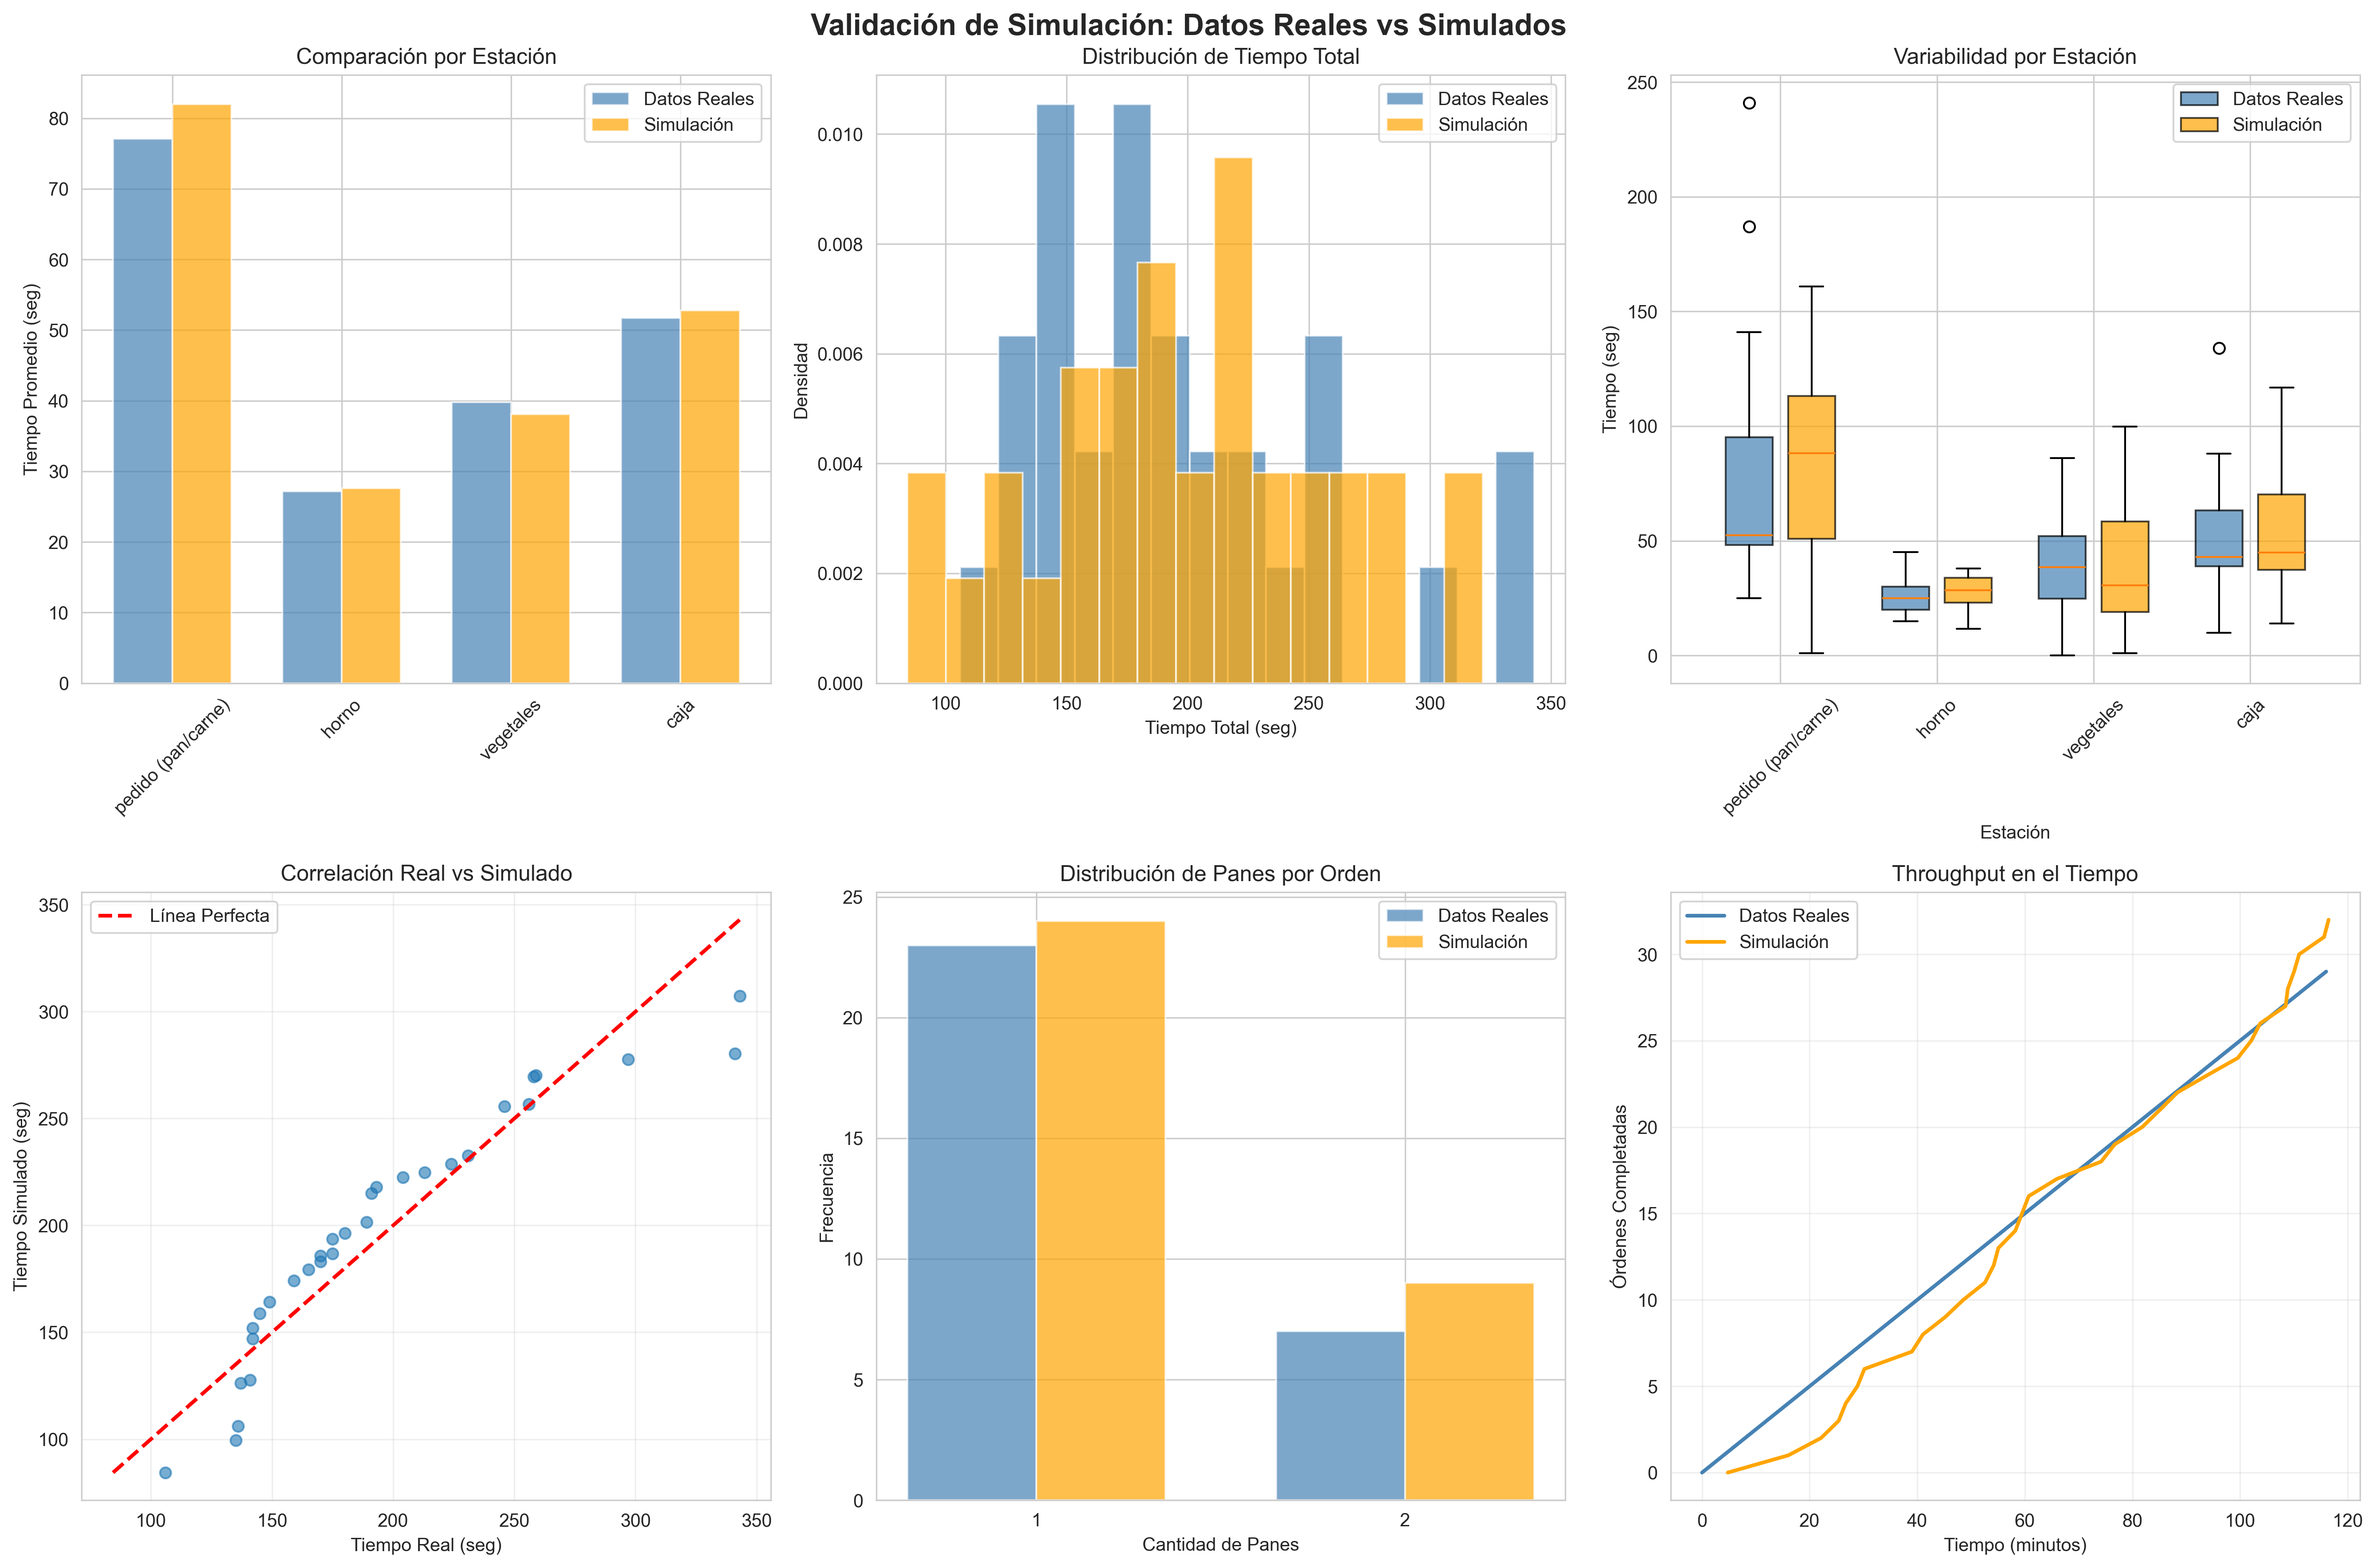
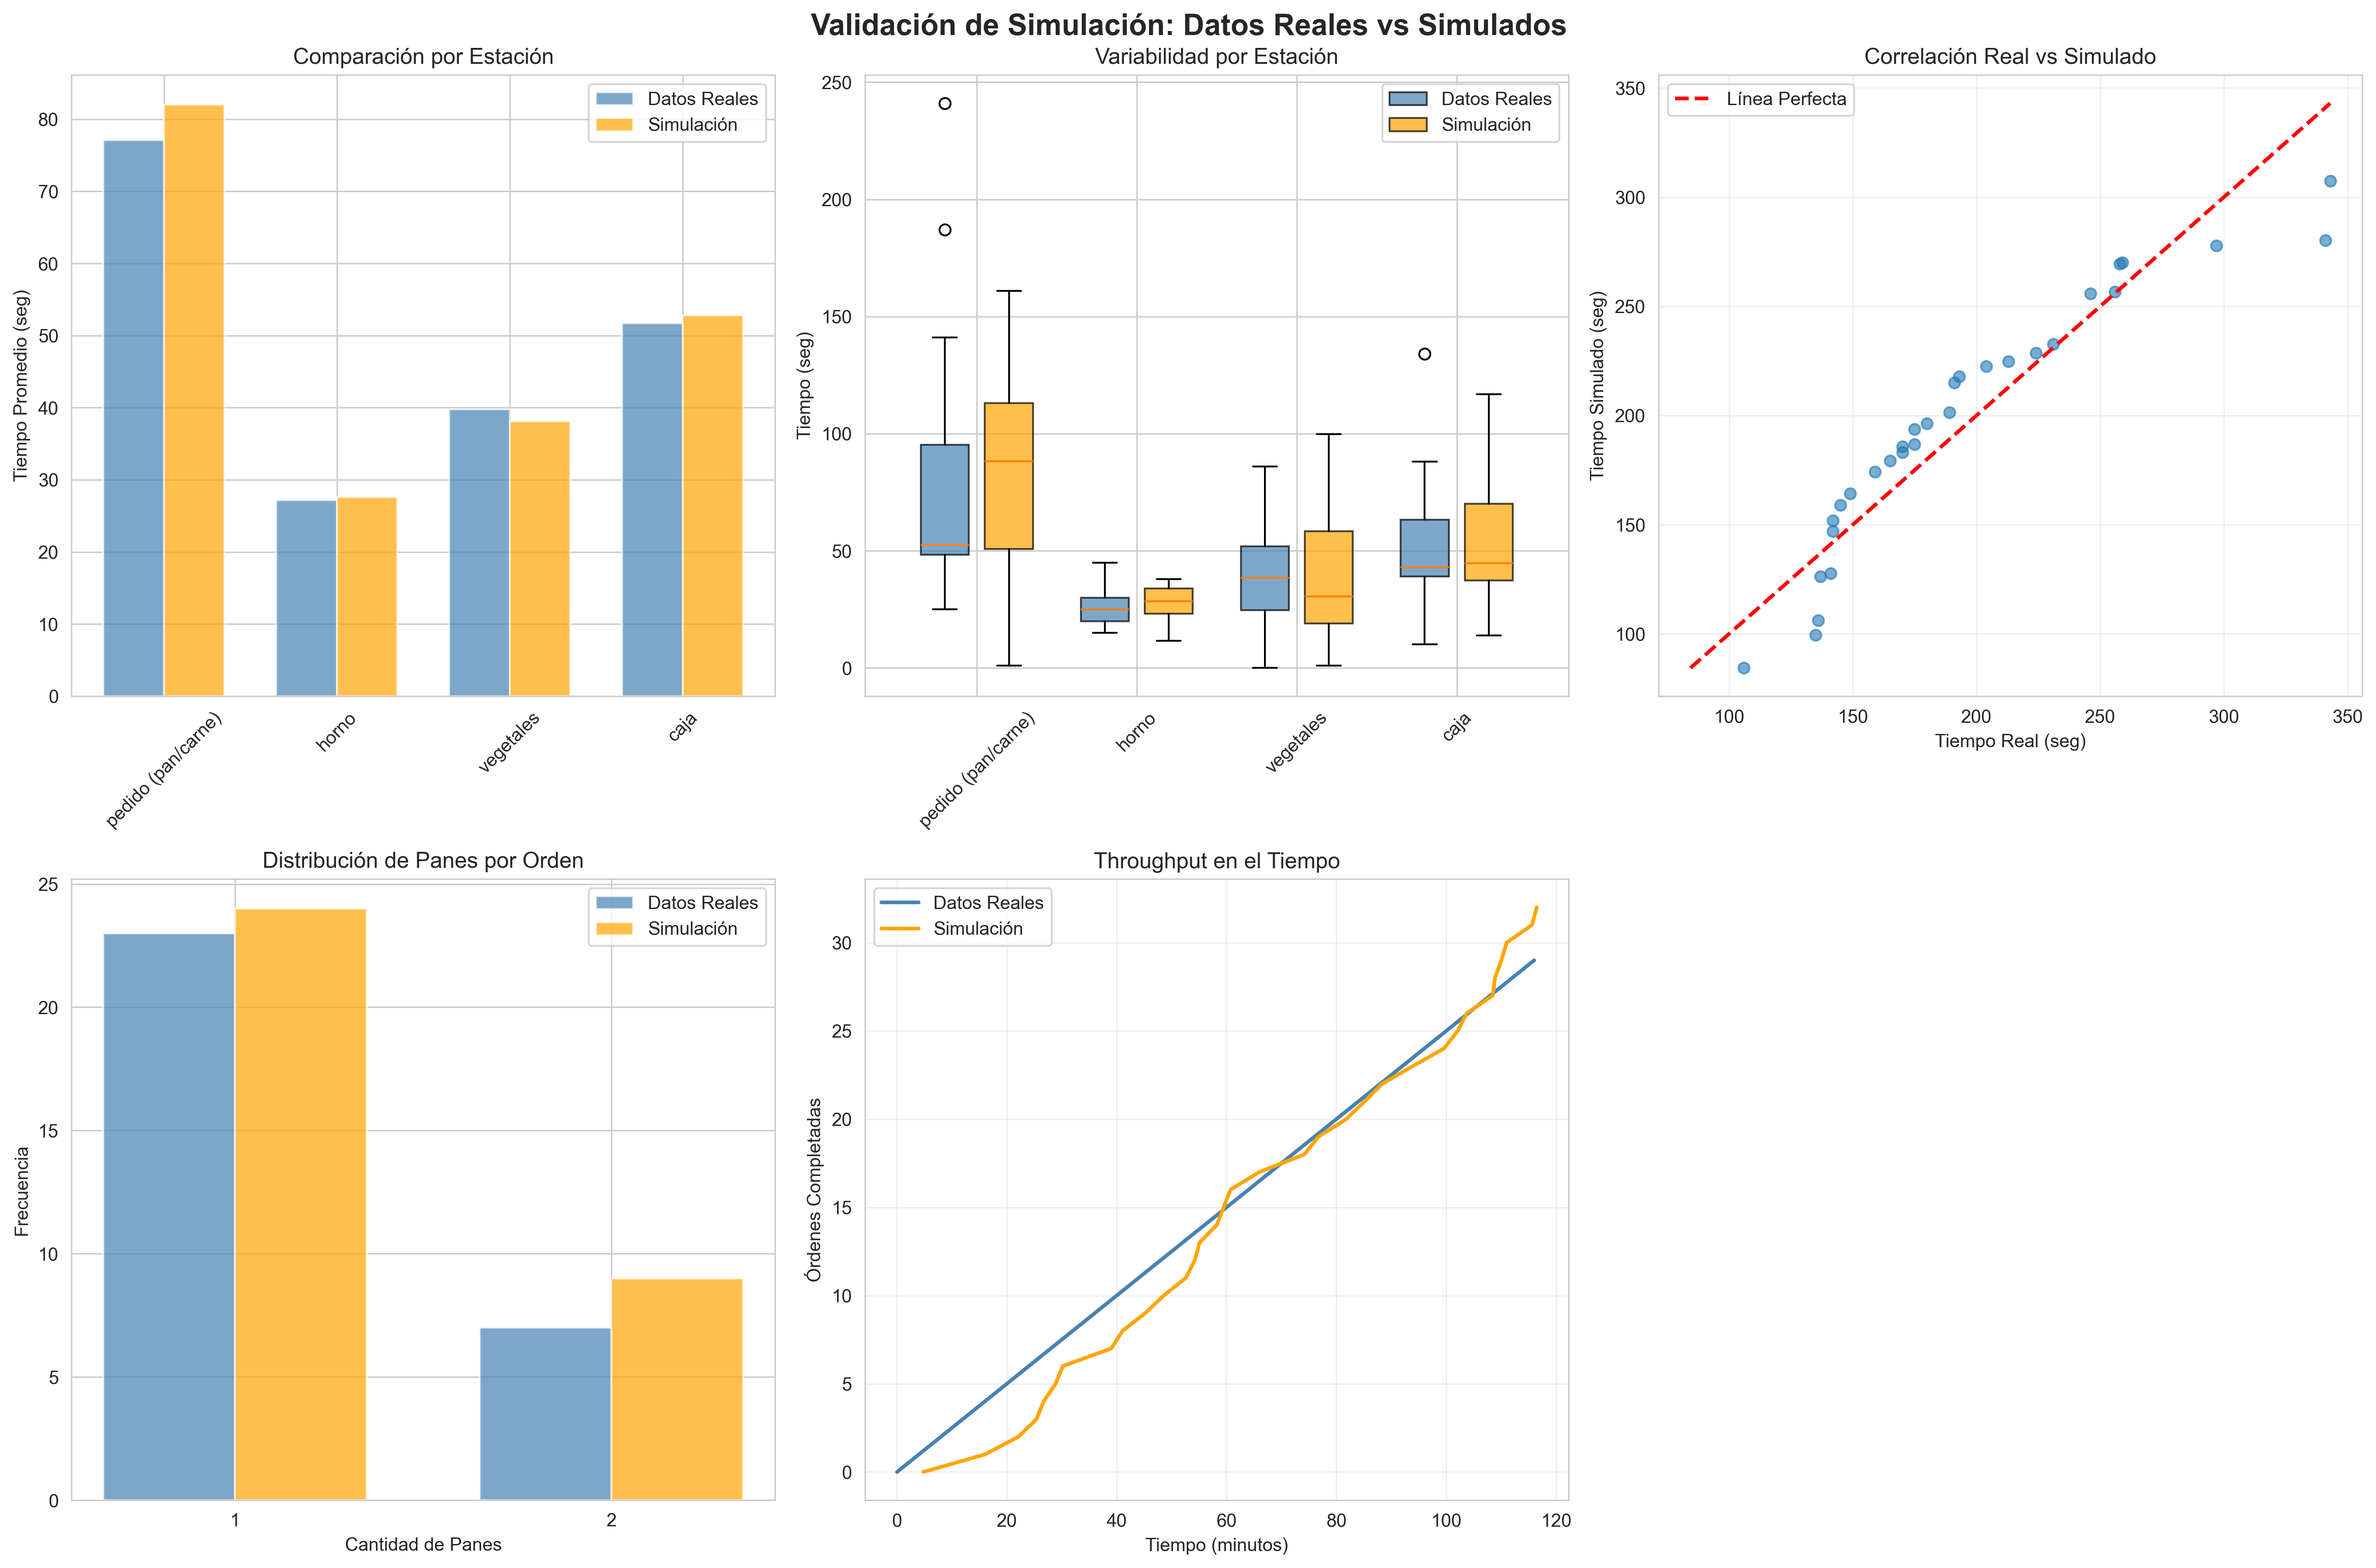
corrección en graficos

diff --git a/parte2/discrete_event_simulation_model.py b/parte2/discrete_event_simulation_model.py
@@ -263,17 +263,8 @@ ax1.set_xticks(x)
 ax1.set_xticklabels(estaciones, rotation=45)
 ax1.legend()
 
-# 2. Distribución de tiempo total
-ax2 = axes[0, 1]
-ax2.hist(df['Tiempo total (seg)'], bins=15, alpha=0.7, label='Datos Reales', color='steelblue', density=True)
-ax2.hist(df_sim['Tiempo total (seg)'], bins=15, alpha=0.7, label='Simulación', color='orange', density=True)
-ax2.set_xlabel('Tiempo Total (seg)')
-ax2.set_ylabel('Densidad')
-ax2.set_title('Distribución de Tiempo Total')
-ax2.legend()
-
-# 3. Box plot comparativo por estación
-ax3 = axes[0, 2]
+# 2. Box plot comparativo por estación
+ax3 = axes[0, 1]
 data_real = [df[col + ' (seg)'].values for col in time_columns]
 data_sim = [df_sim[col + ' (seg)'].values for col in time_columns]
 
@@ -285,15 +276,14 @@ bp1 = ax3.boxplot(data_real, positions=positions_real, widths=0.3, patch_artist=
 bp2 = ax3.boxplot(data_sim, positions=positions_sim, widths=0.3, patch_artist=True,
                   boxprops=dict(facecolor='orange', alpha=0.7))
 
-ax3.set_xlabel('Estación')
 ax3.set_ylabel('Tiempo (seg)')
 ax3.set_title('Variabilidad por Estación')
 ax3.set_xticks(range(len(estaciones)))
 ax3.set_xticklabels(estaciones, rotation=45)
 ax3.legend([bp1["boxes"][0], bp2["boxes"][0]], ['Datos Reales', 'Simulación'])
 
-# 4. Scatter plot: Real vs Simulado
-ax4 = axes[1, 0]
+# 3. Scatter plot: Real vs Simulado
+ax4 = axes[0, 2]
 # Comparar tiempos totales ordenados
 real_sorted = sorted(df['Tiempo total (seg)'].values)
 sim_sorted = sorted(df_sim['Tiempo total (seg)'].values[:len(real_sorted)])
@@ -308,8 +298,8 @@ ax4.set_title('Correlación Real vs Simulado')
 ax4.legend()
 ax4.grid(True, alpha=0.3)
 
-# 5. Distribución de cantidad de panes
-ax5 = axes[1, 1]
+# 4. Distribución de cantidad de panes
+ax5 = axes[1, 0]
 cantidad_real = df['Cantidad de panes'].value_counts().sort_index()
 cantidad_sim = df_sim['Cantidad de panes'].value_counts().sort_index()
 
@@ -324,8 +314,8 @@ ax5.set_xticks(x)
 ax5.set_xticklabels(cantidad_real.index)
 ax5.legend()
 
-# 6. Serie temporal de órdenes completadas
-ax6 = axes[1, 2]
+# 5. Serie temporal de órdenes completadas
+ax6 = axes[1, 1]
 tiempo_real = np.arange(len(df)) * (7200/len(df)) / 60  # Convertir a minutos
 tiempo_sim = np.array(subway_sim.tiempos_salida[:len(df_sim)]) / 60  # Convertir a minutos
 
@@ -336,6 +326,9 @@ ax6.set_ylabel('Órdenes Completadas')
 ax6.set_title('Throughput en el Tiempo')
 ax6.legend()
 ax6.grid(True, alpha=0.3)
+
+axNone = axes[1, 2]
+axNone.axis('off')
 
 plt.tight_layout()
 plt.savefig('discrete_event_simulation_model_charts.png', dpi=300, bbox_inches='tight')

diff --git a/parte2/initial_analysis.py b/parte2/initial_analysis.py
@@ -159,18 +159,8 @@ for i, (bar, tiempo) in enumerate(zip(bars, tiempos)):
     ax1.text(bar.get_x() + bar.get_width()/2, bar.get_height() + 2, 
              seconds_to_time(int(tiempo)), ha='center', fontsize=9)
 
-# 2. Distribución de tiempo total
-ax2 = axes[0, 1]
-ax2.hist(df['Tiempo total (seg)'], bins=10, color='coral', alpha=0.7, edgecolor='black')
-ax2.axvline(df['Tiempo total (seg)'].mean(), color='red', linestyle='--', 
-            linewidth=2, label='Media')
-ax2.set_xlabel('Tiempo Total (segundos)')
-ax2.set_ylabel('Frecuencia')
-ax2.set_title('Distribución de Tiempo Total')
-ax2.legend()
-
-# 3. Box plot de tiempos por estación
-ax3 = axes[0, 2]
+# 2. Box plot de tiempos por estación
+ax3 = axes[0, 1]
 data_boxplot = [df[col + ' (seg)'].values for col in time_columns]
 bp = ax3.boxplot(data_boxplot, labels=estaciones, patch_artist=True)
 for patch in bp['boxes']:
@@ -180,8 +170,8 @@ ax3.set_ylabel('Tiempo (segundos)')
 ax3.set_title('Variabilidad por Estación')
 ax3.tick_params(axis='x', rotation=45)
 
-# 4. Tiempo total vs cantidad de panes
-ax4 = axes[1, 0]
+# 3. Tiempo total vs cantidad de panes
+ax4 = axes[0, 2]
 for cantidad in sorted(df['Cantidad de panes'].unique()):
     subset = df[df['Cantidad de panes'] == cantidad]
     ax4.scatter(subset.index, subset['Tiempo total (seg)'], 
@@ -192,8 +182,8 @@ ax4.set_title('Tiempo Total por Orden')
 ax4.legend()
 ax4.grid(True, alpha=0.3)
 
-# 5. Coeficiente de variación
-ax5 = axes[1, 1]
+# 4. Coeficiente de variación
+ax5 = axes[1, 0]
 cv_values = [cv_dict[col] for col in time_columns]
 bars = ax5.bar(estaciones, cv_values, color='orange', alpha=0.7)
 ax5.axhline(20, color='green', linestyle='--', label='Límite estable (20%)')
@@ -203,12 +193,15 @@ ax5.set_title('Variabilidad del Proceso (CV%)')
 ax5.tick_params(axis='x', rotation=45)
 ax5.legend()
 
-# 6. Contribución porcentual al tiempo total
-ax6 = axes[1, 2]
+# 5. Contribución porcentual al tiempo total
+ax6 = axes[1, 1]
 contribuciones = [(tiempo / sum(tiempos)) * 100 for tiempo in tiempos]
 wedges, texts, autotexts = ax6.pie(contribuciones, labels=estaciones, autopct='%1.1f%%',
                                      startangle=90, colors=sns.color_palette("Set3"))
 ax6.set_title('Contribución al Tiempo Total')
+
+axNone = axes[1, 2]
+axNone.axis('off')
 
 plt.tight_layout()
 plt.savefig('initial_analysis_charts.png', dpi=300, bbox_inches='tight')
